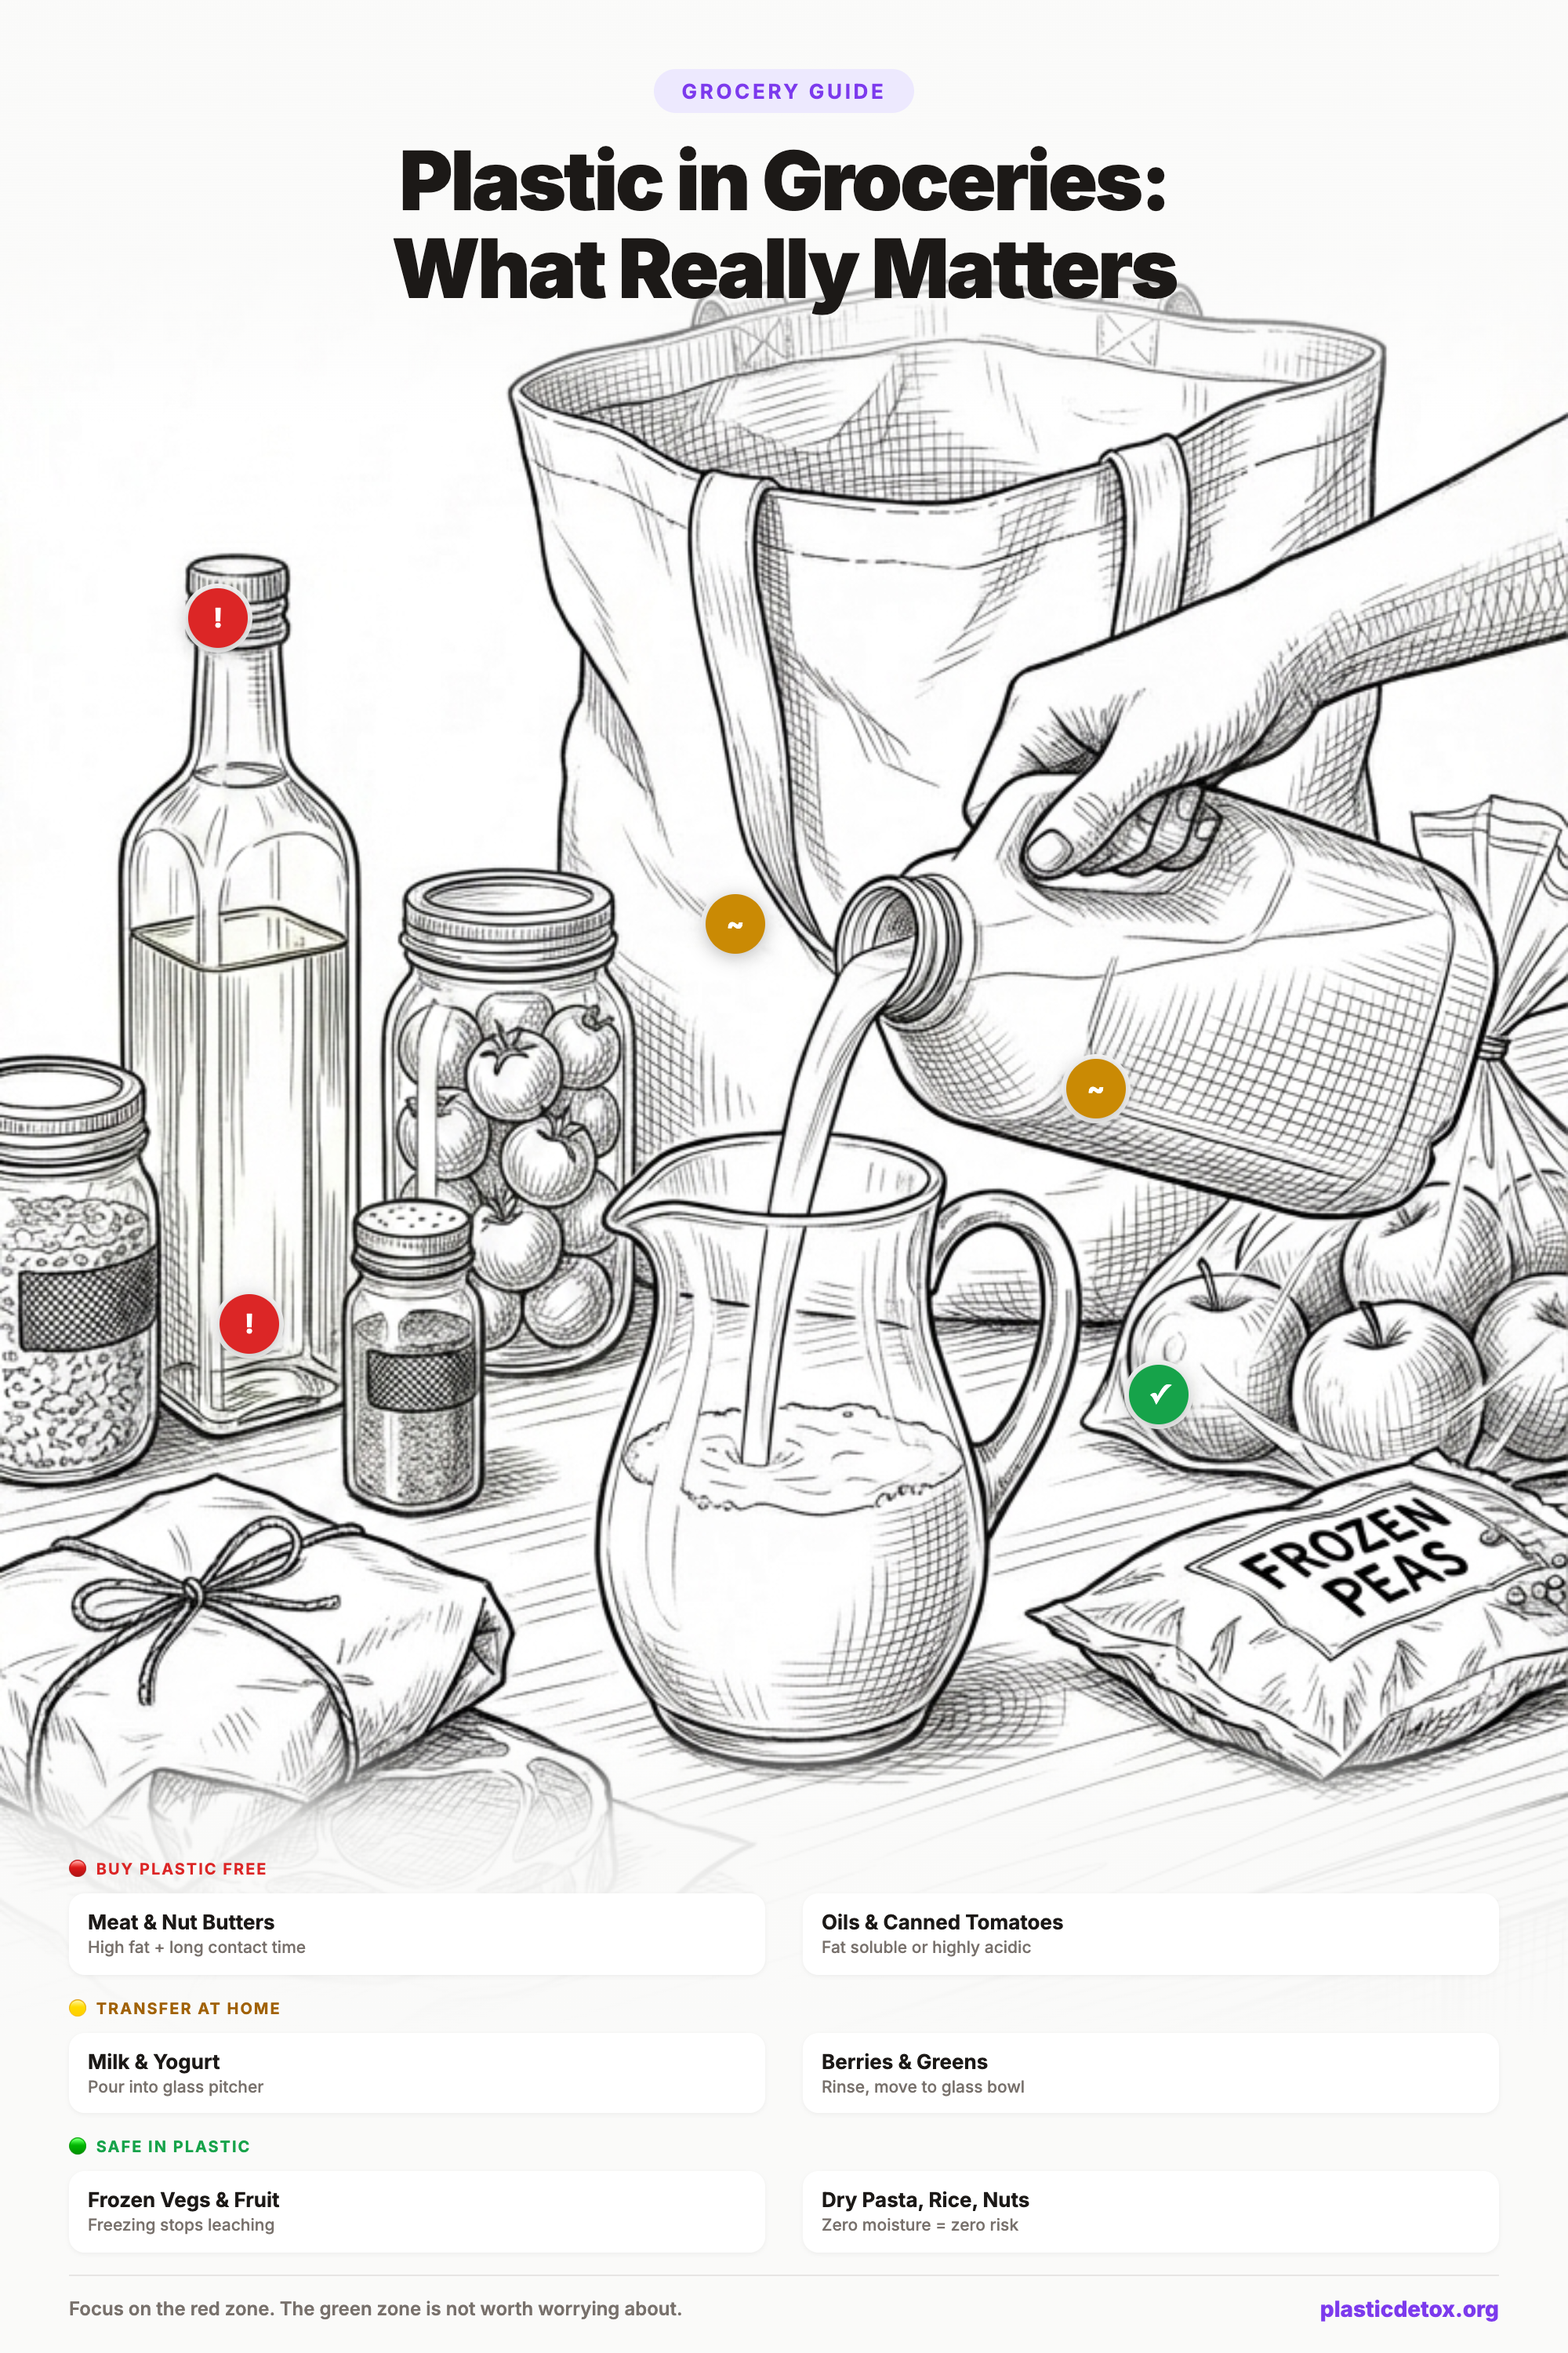
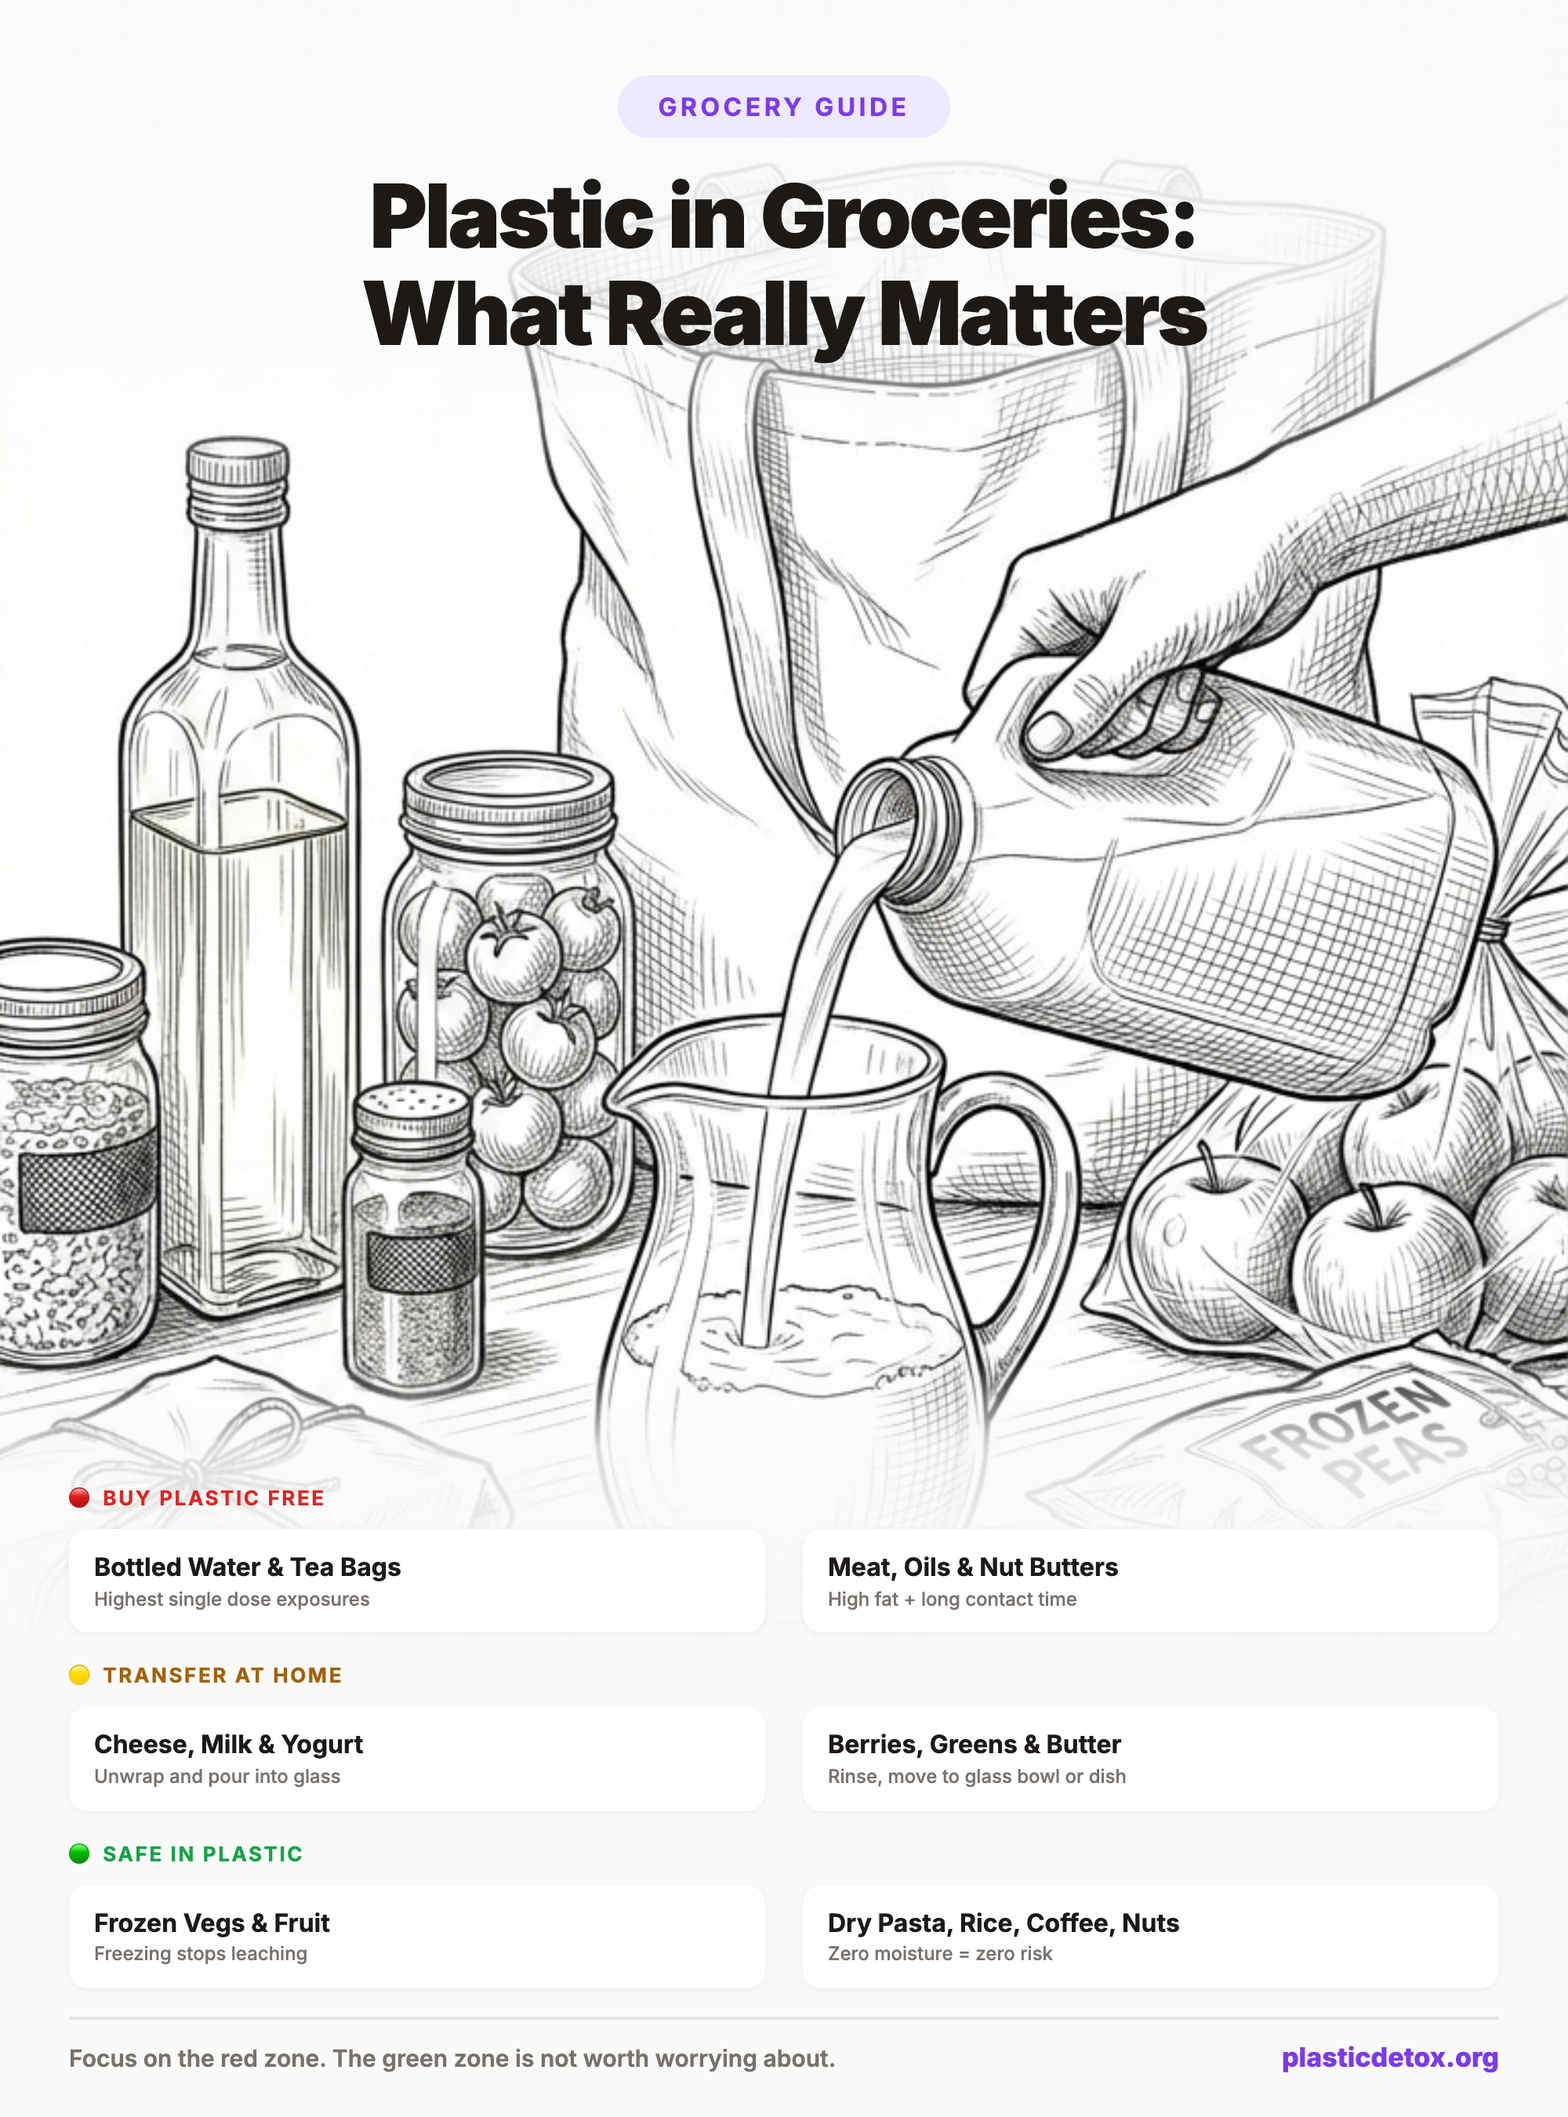
Redesign main article image to 1080x1350 format with bigger content
Matched format to other infographics. Bigger headline (56px), bigger
swap cards (16px), updated red zone to lead with bottled water and tea
bags. Removed badge overlays for cleaner look. Regenerated PNG and WebP.

diff --git a/images/groceries-swap-pinterest.html b/images/groceries-swap-pinterest.html
@@ -12,22 +12,15 @@
       src: url(inter-latin.woff2) format('woff2');
     }
     * { margin: 0; padding: 0; box-sizing: border-box; }
-    body {
-      background: #fafaf9;
-      display: flex;
-      justify-content: center;
-      padding: 2rem;
-      font-family: 'Inter', -apple-system, sans-serif;
-    }
+    body { background: #fafaf9; display: flex; justify-content: center; padding: 2rem; font-family: 'Inter', -apple-system, sans-serif; }
 
     .pin {
-      width: 1000px;
-      height: 1500px;
+      width: 1080px;
+      height: 1350px;
       position: relative;
       overflow: hidden;
     }
 
-    /* Full bleed image */
     .pin > img {
       width: 100%;
       height: 100%;
@@ -39,10 +32,10 @@
     .top-overlay {
       position: absolute;
       top: 0; left: 0; right: 0;
-      padding: 44px 40px 70px;
+      padding: 48px 44px 90px;
       background: linear-gradient(to bottom,
-        rgba(250, 250, 249, 0.95) 0%,
-        rgba(250, 250, 249, 0.85) 60%,
+        rgba(250, 250, 249, 0.97) 0%,
+        rgba(250, 250, 249, 0.88) 55%,
         rgba(250, 250, 249, 0) 100%
       );
       text-align: center;
@@ -50,52 +43,24 @@
 
     .headline-tag {
       display: inline-block;
-      font-size: 13px;
+      font-size: 16px;
       font-weight: 700;
       text-transform: uppercase;
       letter-spacing: 0.14em;
       color: #7c3aed;
       background: #ede9fe;
-      padding: 6px 18px;
+      padding: 10px 26px;
       border-radius: 100px;
-      margin-bottom: 16px;
+      margin-bottom: 20px;
     }
 
     .top-overlay h1 {
-      font-size: 52px;
+      font-size: 56px;
       font-weight: 900;
       color: #1c1917;
-      line-height: 1.08;
+      line-height: 1.1;
       letter-spacing: -0.03em;
     }
-
-    /* ─── NUMBERED BADGES ─── */
-    .badge {
-      position: absolute;
-      width: 38px;
-      height: 38px;
-      border-radius: 50%;
-      color: #fff;
-      font-size: 17px;
-      font-weight: 800;
-      display: flex;
-      align-items: center;
-      justify-content: center;
-      box-shadow:
-        0 2px 12px rgba(0, 0, 0, 0.3),
-        0 0 0 3px rgba(255, 255, 255, 0.95);
-      z-index: 3;
-    }
-
-    .badge-red { background: #dc2626; }
-    .badge-yellow { background: #ca8a04; }
-    .badge-green { background: #16a34a; }
-
-    .badge-1 { left: 14%; top: 55%; }
-    .badge-2 { left: 12%; top: 25%; }
-    .badge-3 { left: 45%; top: 38%; }
-    .badge-4 { left: 68%; top: 45%; }
-    .badge-5 { left: 72%; top: 58%; }
 
     /* ─── BOTTOM: swap legend card ─── */
     .bottom-card {
@@ -103,20 +68,20 @@
       bottom: 0; left: 0; right: 0;
       background: linear-gradient(to bottom,
         rgba(250, 250, 249, 0) 0%,
-        rgba(250, 250, 249, 0.9) 15%,
-        rgba(250, 250, 249, 0.97) 30%,
-        rgba(250, 250, 249, 1) 50%
+        rgba(250, 250, 249, 0.85) 12%,
+        rgba(250, 250, 249, 0.96) 25%,
+        rgba(250, 250, 249, 1) 40%
       );
-      padding: 80px 44px 20px;
+      padding: 80px 44px 28px;
     }
 
     .zone-label {
-      font-size: 10px;
+      font-size: 13px;
       font-weight: 700;
       text-transform: uppercase;
       letter-spacing: 0.1em;
-      margin-bottom: 8px;
-      margin-top: 12px;
+      margin-bottom: 10px;
+      margin-top: 16px;
     }
 
     .zone-label:first-child { margin-top: 0; }
@@ -127,27 +92,22 @@
     .swaps {
       display: grid;
       grid-template-columns: 1fr 1fr;
-      gap: 8px 24px;
+      gap: 10px 24px;
     }
 
     .swap {
       display: flex;
       align-items: center;
-      gap: 10px;
+      gap: 12px;
       background: #fff;
-      border-radius: 10px;
-      padding: 10px 12px;
-      box-shadow: 0 1px 3px rgba(0,0,0,0.05);
-    }
-
-    .swap-icon {
-      font-size: 18px;
-      flex-shrink: 0;
+      border-radius: 12px;
+      padding: 14px 16px;
+      box-shadow: 0 1px 4px rgba(0,0,0,0.06);
     }
 
     .swap-text {
       flex: 1;
-      font-size: 13px;
+      font-size: 16px;
       font-weight: 700;
       color: #1c1917;
       line-height: 1.3;
@@ -155,67 +115,51 @@
 
     .swap-text span {
       display: block;
-      font-size: 10.5px;
+      font-size: 12px;
       font-weight: 500;
       color: #78716c;
-      margin-top: 1px;
+      margin-top: 2px;
     }
 
-    /* ─── FOOTER ─── */
     .footer {
       display: flex;
       align-items: center;
       justify-content: space-between;
-      margin-top: 14px;
-      padding-top: 12px;
-      border-top: 1px solid #e7e5e4;
+      margin-top: 18px;
+      padding-top: 14px;
+      border-top: 2px solid #e7e5e4;
     }
 
-    .footer-stat {
-      font-size: 12px;
-      font-weight: 600;
-      color: #78716c;
-    }
-
-    .footer-url {
-      font-size: 14px;
-      font-weight: 800;
-      color: #7c3aed;
-    }
+    .footer-stat { font-size: 15px; font-weight: 600; color: #78716c; }
+    .footer-url { font-size: 17px; font-weight: 800; color: #7c3aed; }
   </style>
 </head>
 <body>
   <div class="pin">
-    <img src="groceries2.png" alt="Pencil sketch of grocery items being unpacked on a kitchen counter with olive oil bottle, tomatoes in glass jar, butcher paper wrapped meat, milk being poured into glass pitcher, apples, and frozen peas">
+    <img src="groceries2.png" alt="Pencil sketch of grocery items being unpacked on a kitchen counter">
 
     <div class="top-overlay">
       <div class="headline-tag">Grocery Guide</div>
       <h1>Plastic in Groceries:<br>What Really Matters</h1>
     </div>
 
-    <div class="badge badge-red badge-1">!</div>
-    <div class="badge badge-red badge-2">!</div>
-    <div class="badge badge-yellow badge-3">~</div>
-    <div class="badge badge-yellow badge-4">~</div>
-    <div class="badge badge-green badge-5">✓</div>
-
     <div class="bottom-card">
       <div class="zone-label zone-label-red">🔴 Buy plastic free</div>
       <div class="swaps">
         <div class="swap">
-          <div class="swap-text">Meat &amp; Nut Butters<span>High fat + long contact time</span></div>
+          <div class="swap-text">Bottled Water &amp; Tea Bags<span>Highest single dose exposures</span></div>
         </div>
         <div class="swap">
-          <div class="swap-text">Oils &amp; Canned Tomatoes<span>Fat soluble or highly acidic</span></div>
+          <div class="swap-text">Meat, Oils &amp; Nut Butters<span>High fat + long contact time</span></div>
         </div>
       </div>
       <div class="zone-label zone-label-yellow">🟡 Transfer at home</div>
       <div class="swaps">
         <div class="swap">
-          <div class="swap-text">Milk &amp; Yogurt<span>Pour into glass pitcher</span></div>
+          <div class="swap-text">Cheese, Milk &amp; Yogurt<span>Unwrap and pour into glass</span></div>
         </div>
         <div class="swap">
-          <div class="swap-text">Berries &amp; Greens<span>Rinse, move to glass bowl</span></div>
+          <div class="swap-text">Berries, Greens &amp; Butter<span>Rinse, move to glass bowl or dish</span></div>
         </div>
       </div>
       <div class="zone-label zone-label-green">🟢 Safe in plastic</div>
@@ -224,7 +168,7 @@
           <div class="swap-text">Frozen Vegs &amp; Fruit<span>Freezing stops leaching</span></div>
         </div>
         <div class="swap">
-          <div class="swap-text">Dry Pasta, Rice, Nuts<span>Zero moisture = zero risk</span></div>
+          <div class="swap-text">Dry Pasta, Rice, Coffee, Nuts<span>Zero moisture = zero risk</span></div>
         </div>
       </div>
       <div class="footer">
